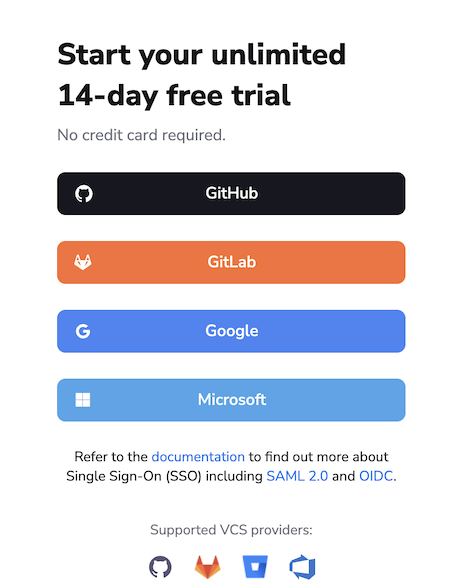
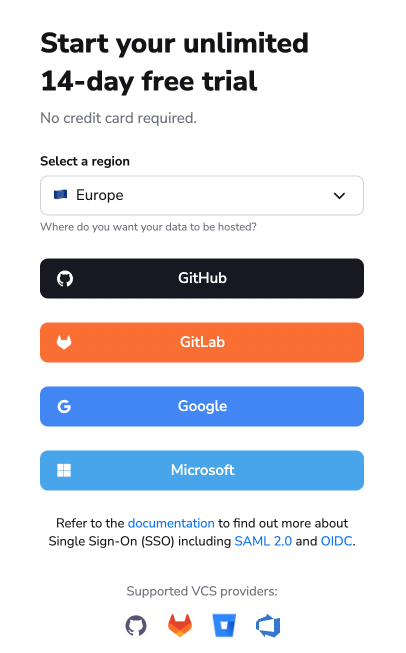
Update Spacelift SS for getting started (#1075)

diff --git a/docs/README.md b/docs/README.md
@@ -23,17 +23,16 @@ In this guide we will briefly introduce some key concepts that you need to know 
 
 ## Create your Spacelift account
 
-![](<./assets/screenshots/StartforfreeGS.png>)
+![Spacelift homepage free trial button](<./assets/screenshots/StartforfreeGS.png>)
 
-1. On the [Spacelift home page](https://spacelift.io/){: rel="nofollow"}, click **Start for Free**.
-2. Create your Spacelift account by signing in with your GitHub, GitLab, Google, or Microsoft account.
+1. In the top-right of the [Spacelift home page](https://spacelift.io/){: rel="nofollow"}, click **Free trial**.
+2. Select the region (Europe or United States) where your data will be hosted.
+3. Create your Spacelift account by signing in with your GitHub, GitLab, Google, or Microsoft account.
 
-    ![](<./assets/screenshots/Startoptions.png>)
+    ![Start trial with identity provider](<./assets/screenshots/Startoptions.png>)
 
-If using GitHub, the selected GitHub organization or account name will be your Spacelift account name.
-
-!!! note
-    If using a Microsoft account, you may need to [provide admin approval](./faq/README.md#providing-admin-consent-for-microsoft-login) to log in.
+      - **GitHub**: The selected GitHub organization or account name will be your Spacelift account name.
+      - **Microsoft**: You may need to [provide admin approval](./faq/README.md#providing-admin-consent-for-microsoft-login) to log in.
 
 {% else %}
 
@@ -58,7 +57,7 @@ Once your LaunchPad tasks are complete, you can start your first stack run.
 
 ## Trigger your first run
 
-Assuming your repository contains your infrastructure (or you're using our provided [Terraform starter repository](https://github.com/spacelift-io/terraform-starter){: rel="nofollow"}), you can start using Spacelift to start runs.
+Assuming your repository contains your infrastructure (or you're using our provided [Terraform starter repository](https://github.com/spacelift-io/terraform-starter){: rel="nofollow"}), you can use Spacelift to start runs.
 
 !!! tip
     If you are using the Terraform starter repository, and you did not sign up for your Spacelift account with GitHub, you may need to add the environment variable `TF_VAR_github_app_namespace` with the value as your organization name or GitHub handle. You can do this under the `Environment` tab in the stack.
